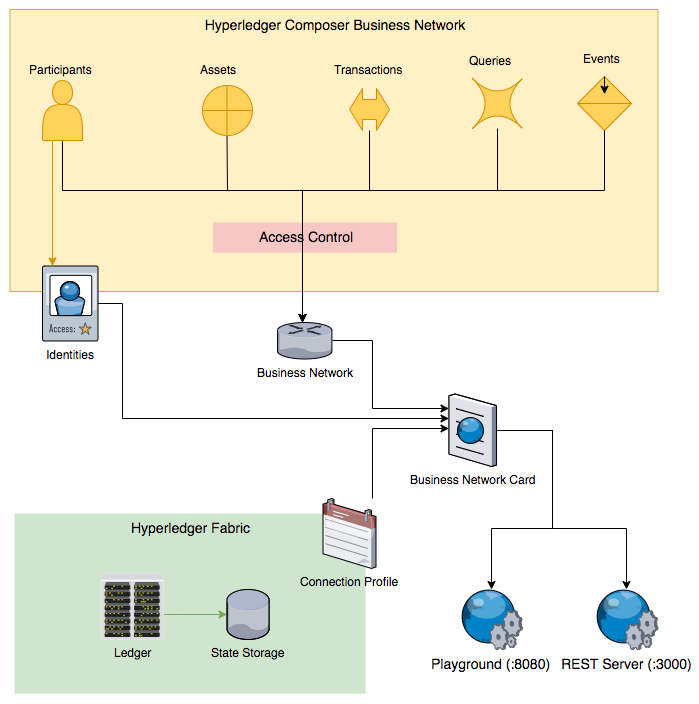
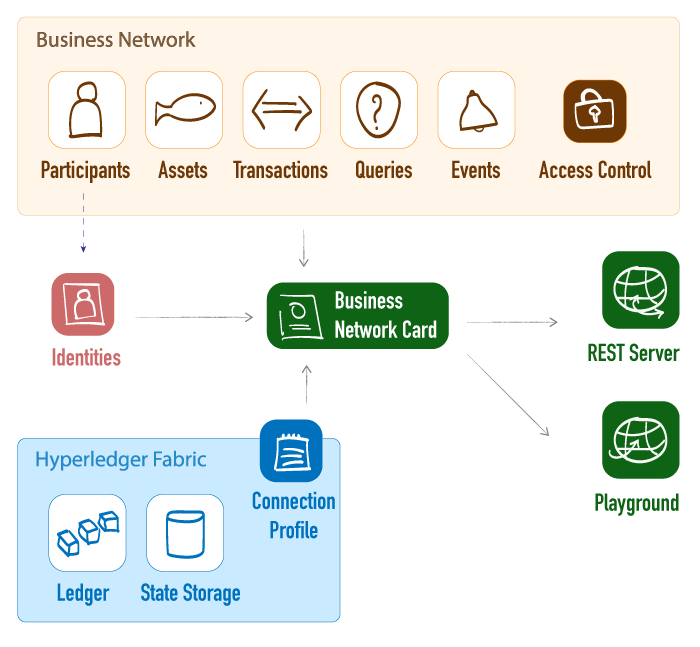
[ADD-COMPOSER]: Update Architecture diagram graphics

diff --git a/LFS171x/composer-material/sections/section_3.md b/LFS171x/composer-material/sections/section_3.md
@@ -18,6 +18,11 @@ A **Business Network** includes:
 
 ## Business Network - Modeling language
 
+![Icon Participants](resources/icon_participants.png)
+![Icon Assets](resources/icon_assets.png)
+![Icon Transactions](resources/icon_transactions.png)
+![Icon Events](resources/icon_events.png)
+
 Hyperledger Composer includes an object-oriented modeling language that is used to define the domain model for a business network definition.
 
 This is used inside the `.cto` files and allows users to define resources, such as network participants, assets and transactions.
@@ -40,6 +45,8 @@ o String postcode regex=/(GIR 0AA)|((([A-Z-[QVf]][0-9][0-9]?)|(([A-Z-[QVf]][A-Z-
 ```
 
 ## Business Network - Transaction Logic
+![Icon Transactions](resources/icon_transactions.png)
+
 The transactions are encoded under `lib/.js` with *JavaScript (JS)*, one of the most popular programming languages.
  
 These  files define the actual logic to execute the transactions defined in the `.cto` files.
@@ -56,6 +63,8 @@ async function sellTuna(tx) {
 ```
 
 ## Business Network - Queries
+![Icon Queries](resources/icon_queries.png)
+
 The *Query language* helps to define queries to retrieve information on the Blockchain using a *Structured Query Language (SQL)* type interface.
 
 This can, for instance, enable complex queries that list all the assets of a participant that have been traded within a certain period, or retrieving assets owned by specific participants
@@ -70,7 +79,9 @@ query getTunaByParticipant {
 }
 ```
 
-## Business Network - Access Control Rules 
+## Business Network - Access Control Rules
+![Icon Access Control Rules](resources/icon_acl.png)
+
 The *Access Control language* enables the simple definition of rules for accessing assets and transactions by different types of participant and identity.
 
 For example, a rule may allow, for instance, a trader to access and transfer his own assets but allow an auditor *read-only access* to all assets on the network.
@@ -87,15 +98,16 @@ rule NetworkAdminSystem {
 
 ## Fabric Integration and Deployment
 
-![Business Network Folder](resources/img_03-04.png)
-#### Identities
+![Fabric Integration and Deployment](resources/img_03-04.png)
+
+#### ![Icon Identities](resources/icon_identities.png) Identities
 Composer also integrates a system for managing identities through the use of ID cards, which are mapped to a participants of the Business Network.
 Using the *Identity*, the user of the Business Network can operate as that participant.
 
-#### Connection Profile
+#### ![Icon Connection Profile](resources/icon_connection-profile.png) Connection Profile
 The *connection profile* is a JSON Document that provides the information necessary to connect to a system (e.g. *Hyperledger Fabric* instance, including *CA*, *Orderers* and *Peers*).
 
-#### Business Network Cards
+#### ![Icon Business Network Card](resources/icon_business-network-card.png) Business Network Cards
 *Business Network Cards* map all the above, combining identities, connection profiles and business network metadata.
 They simplify the process of connecting to a business network.
 
@@ -106,12 +118,12 @@ There are two ways to access to the Business Network on Hyperledger Composer.
 - **Composer Playground** provides a web-based test environment.
 - **Composer REST Server** provides programmatic access to the Blockchain.
 
-![Business Network Folder](resources/img_03-05.png)
-### Composer Playground
+![Deployment and Test](resources/img_03-05.png)
+### ![Icon Playground](resources/icon_playground.png) Composer Playground
 
 [VIDEO In progress..]
 
-### REST Server
+### ![Icon REST Server](resources/icon_rest-server.png) REST Server
 The *REST server* provided by Hyperledger Composer allows exposing the blockchain’s participants, assets, transactions and queries with a transparent *Application Programming Interface (API)*.
 
 This makes it easy to integrate programmatic access to the Blockchain and to connect it to web or mobile application.
